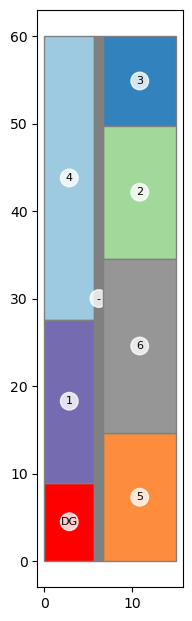
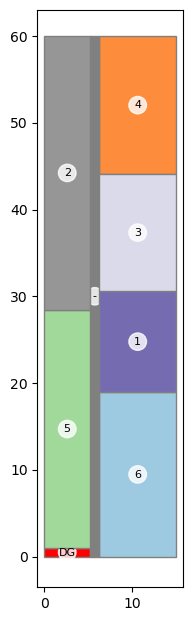
ajustes_0711

diff --git a/stages.py b/stages.py
@@ -2,7 +2,7 @@ import gurobipy as gp
 from gurobipy import GRB
 from get_cargo_sets import *
 from stowing_classes import Cargo, Ship
-gp.setParam("LogToConsole", 0) 
+# gp.setParam("LogToConsole", 0) 
 
 def stage_1(cargos: list[Cargo], ship: Ship, cargos_id_list) -> list[Cargo]:
     m1 = gp.Model("Estágio1")
@@ -29,10 +29,10 @@ def stage_2(ship: Ship, optimal_cargos_stage1: list[Cargo], time_max: int=60) ->
     m2.setParam(GRB.Param.NonConvex, 2)
     BETA= 1.5*ship.H/ship.W if ship.H/ship.W>ship.W/ship.H else 1.5*ship.W/ship.H
 
-    w_areas = m2.addVars(ship.areas_id, vtype=GRB.CONTINUOUS, name='w')
-    h_areas = m2.addVars(ship.areas_id, vtype=GRB.CONTINUOUS, name='h')
-    x_areas = m2.addVars(ship.areas_id, vtype=GRB.CONTINUOUS, name='x')
-    y_areas = m2.addVars(ship.areas_id, vtype=GRB.CONTINUOUS, name='y')
+    w_areas = m2.addVars(ship.areas_id, vtype=GRB.CONTINUOUS, lb=0.0, name='w')
+    h_areas = m2.addVars(ship.areas_id, vtype=GRB.CONTINUOUS, lb=0.0, name='h')
+    x_areas = m2.addVars(ship.areas_id, vtype=GRB.CONTINUOUS, lb=0.0, name='x')
+    y_areas = m2.addVars(ship.areas_id, vtype=GRB.CONTINUOUS, lb=0.0, name='y')
 
     a_kl_areas = m2.addVars(ship.areas_id, ship.areas_id, vtype=GRB.BINARY, name='a')
     b_kl_areas = m2.addVars(ship.areas_id, ship.areas_id, vtype=GRB.BINARY, name='b')
@@ -90,24 +90,38 @@ def stage_2(ship: Ship, optimal_cargos_stage1: list[Cargo], time_max: int=60) ->
     solution_w = m2.getAttr("X", w_areas)
     solution_h = m2.getAttr("X", h_areas)
 
+    a_areas = m2.getAttr("X", a_kl_areas)
+    b_areas = m2.getAttr("X", b_kl_areas)
+    c_areas = m2.getAttr("X", c_kl_areas)
+    d_areas = m2.getAttr("X", d_kl_areas)
+
     for k in ship.areas_id:
         ship.areas[k].x = solution_x[k]
         ship.areas[k].y = solution_y[k]
         ship.areas[k].w = solution_w[k]
         ship.areas[k].h = solution_h[k]
 
-def stage_3(ship: Ship, optimal_cargos_stage1: list[Cargo], cargos: list[Cargo], x_HS: dict, y_HS: dict) -> None:
+    return a_areas, b_areas, c_areas, d_areas
+
+def stage_3(ship: Ship, optimal_cargos_stage1: list[Cargo], cargos: list[Cargo], 
+            x_HS: dict, y_HS: dict, a_areas, b_areas, c_areas, d_areas) -> None:
 
     m3 = gp.Model("Estágio3")
     m3.setParam(GRB.Param.TimeLimit, 90)
     optimal_cargos_id_list = [c.cargo_id for c in optimal_cargos_stage1]
-    z = m3.addVars(optimal_cargos_id_list, vtype=GRB.CONTINUOUS, name='z')
+    z = m3.addVars(optimal_cargos_id_list, vtype=GRB.BINARY, name='z')
     x = m3.addVars(optimal_cargos_id_list, vtype=GRB.CONTINUOUS, name='x')
     y = m3.addVars(optimal_cargos_id_list, vtype=GRB.CONTINUOUS, name='y')
+
     a = m3.addVars(optimal_cargos_id_list,optimal_cargos_id_list, vtype=GRB.BINARY, name='a')
     b = m3.addVars(optimal_cargos_id_list,optimal_cargos_id_list, vtype=GRB.BINARY, name='b')
     c = m3.addVars(optimal_cargos_id_list,optimal_cargos_id_list, vtype=GRB.BINARY, name='c')
     d = m3.addVars(optimal_cargos_id_list,optimal_cargos_id_list, vtype=GRB.BINARY, name='d')
+
+    w_areas = m3.addVars(ship.areas_id, vtype=GRB.CONTINUOUS, name='w_a')
+    h_areas = m3.addVars(ship.areas_id, vtype=GRB.CONTINUOUS, name='h_a')
+    x_areas = m3.addVars(ship.areas_id, vtype=GRB.CONTINUOUS, name='x_a')
+    y_areas = m3.addVars(ship.areas_id, vtype=GRB.CONTINUOUS, name='y_a')
 
     C_AUX = get_C_AUX(optimal_cargos_stage1)
 
@@ -121,6 +135,7 @@ def stage_3(ship: Ship, optimal_cargos_stage1: list[Cargo], cargos: list[Cargo],
             m3.addConstr(b[c_i,c_j] <= 0.5*(z[c_i] + z[c_j]))
             m3.addConstr(c[c_i,c_j] <= 0.5*(z[c_i] + z[c_j]))
             m3.addConstr(d[c_i,c_j] <= 0.5*(z[c_i] + z[c_j]))
+            
             m3.addConstr(a[c_i,c_j] + b[c_i,c_j] + c[c_i,c_j] + d[c_i,c_j] <= 1)
             m3.addConstr(a[c_i,c_j] + b[c_i,c_j] + c[c_i,c_j] + d[c_i,c_j] >= z[c_i] + z[c_j] - 1)
 
@@ -131,22 +146,54 @@ def stage_3(ship: Ship, optimal_cargos_stage1: list[Cargo], cargos: list[Cargo],
 
     for cargo_i in optimal_cargos_stage1:
         c_i = cargo_i.cargo_id
+        a_i = cargo_i.area
         if not cargo_i.restricted_area:
-            m3.addConstr(x[c_i] >= ship.areas[cargo_i.area].x - ship.W*(1-z[c_i]))
-            m3.addConstr(x[c_i] + cargo_i.w <= ship.areas[cargo_i.area].x + ship.areas[cargo_i.area].w - ship.W*(1-z[c_i]))
-            m3.addConstr(y[c_i] >= ship.areas[cargo_i.area].y - ship.H*(1-z[c_i]))
-            m3.addConstr(y[c_i] + cargo_i.h <= ship.areas[cargo_i.area].y + ship.areas[cargo_i.area].h - ship.H*(1-z[c_i]))
+            m3.addConstr(x[c_i] >= x_areas[a_i] - ship.W*(1-z[c_i]))
+            m3.addConstr(x[c_i] + cargo_i.w <= x_areas[a_i] + w_areas[a_i] - ship.W*(1-z[c_i]))
+            m3.addConstr(y[c_i] >= y_areas[a_i] - ship.H*(1-z[c_i]))
+            m3.addConstr(y[c_i] + cargo_i.h <= y_areas[a_i] + h_areas[a_i] - ship.H*(1-z[c_i]))
         
         if cargo_i.urgent or cargo_i.restricted_area:
-            m3.addConstr(z[cargo_i.cargo_id]==1)
+            m3.addConstr(z[c_i]==1, name='125')
         
-        # if cargo_i.restricted_area:
-        #     m3.addConstr(x[c_i]==x_HS[c_i])
-        #     m3.addConstr(y[c_i]==y_HS[c_i])
-
+        if cargo_i.restricted_area:
+            m3.addConstr(x[c_i]==x_HS[c_i], name='126')
+            m3.addConstr(y[c_i]==y_HS[c_i], name='127')
 
     C_REF = [c.cargo_id for c in optimal_cargos_stage1 if c.refrigerated]
-    m3.addConstr(gp.quicksum(z[i] for i in C_REF) <= ship.T)
+
+    m3.addConstr(gp.quicksum(z[i] for i in C_REF) <= ship.T, name='128')
+
+    m3.addConstrs((x_areas[k]+w_areas[k]<=ship.W for k in ship.areas_id), name="129")
+    m3.addConstrs((y_areas[k]+h_areas[k]<=ship.H for k in ship.areas_id), name="130")
+
+    m3.addConstr(w_areas["area_0"]==ship.W_CORREDOR, name="132")
+    m3.addConstr(h_areas["area_0"]==ship.H, name="133")
+    m3.addConstr(x_areas["area_0"]>=0.35*ship.W, name="134")
+    m3.addConstr(x_areas["area_0"]<=0.65*ship.W, name="135")
+
+    m3.addConstr(h_areas[ship.dangerous_area]<=ship.H_DG, name="136")
+    m3.addConstr(y_areas[ship.dangerous_area]==0, name="137")
+
+    # m3.addConstrs((x[i]>=0 for i in optimal_cargos_id_list), name="138_x")
+    # m3.addConstrs((y[i]>=0 for i in optimal_cargos_id_list), name="138_y")
+
+    #non-overlapping constraint
+    for k in ship.areas_id:
+        for l in ship.areas_id:
+            if a_areas[k,l]==1:
+                m3.addConstr(x_areas[k]+w_areas[k]<=x_areas[l])
+            if b_areas[k,l]==1:
+                m3.addConstr(x_areas[l]+w_areas[l]<=x_areas[k])
+            if c_areas[k,l]==1:
+                m3.addConstr(y_areas[k]+h_areas[k]<=y_areas[l])
+            if d_areas[k,l]==1:
+                m3.addConstr(y_areas[l]+h_areas[l]<=y_areas[k])
+
+    m3.addConstrs((x_areas[k]>=0 for k in ship.areas_id), name="140_x")
+    m3.addConstrs((y_areas[k]>=0 for k in ship.areas_id), name="140_y")
+    m3.addConstrs((w_areas[k]>=0 for k in ship.areas_id), name="140_w")
+    m3.addConstrs((h_areas[k]>=0 for k in ship.areas_id), name="140_h")
 
     m3.setObjective(gp.quicksum(z[c.cargo_id]*c.priority for c in optimal_cargos_stage1), GRB.MAXIMIZE)
     m3.optimize()

diff --git a/execute_stowing_plan.py b/execute_stowing_plan.py
@@ -26,7 +26,7 @@ def read_inputs(path) -> Tuple[list[Cargo], str]:
     dangerous_area = "area_" + str(n_destinations)
     return cargos, dangerous_area
 
-def main(H, H_DG, W, T, W_CORREDOR, x_HS, y_HS, time_max, path="Plano de Estivagem - Copy.xlsx"):
+def main(H, H_DG, W, T, W_CORREDOR, x_HS, y_HS, time_max, path="Plano de Estivagem - Copy - Copy.xlsx"):
     logging.info("Reading inputs...")
     cargos, dangerous_area = read_inputs(path)
     cargos_id_list = [c.cargo_id for c in cargos]
@@ -40,13 +40,11 @@ def main(H, H_DG, W, T, W_CORREDOR, x_HS, y_HS, time_max, path="Plano de Estivag
     for cargo in optimal_cargos_stage1:
         print(f"{cargo.cargo_id}: W = {cargo.w}; H = {cargo.h}, Area = {cargo.area}")
     logging.info("Executing Stage 2...")
-    stage_2(ship, optimal_cargos_stage1, time_max)
-    for area in ship.areas.values():
-        print(f"{area.area_id}: W= {area.w} e H={area.h}; x = {area.x} e y = {area.y}")
+    a_areas, b_areas, c_areas, d_areas = stage_2(ship, optimal_cargos_stage1, time_max)
     im.plot_areas(ship=ship)
     logging.info("Ship areas plotted!")
     logging.info("Executing Stage 3")
-    stage_3(ship, optimal_cargos_stage1, cargos, x_HS, y_HS) 
+    stage_3(ship, optimal_cargos_stage1, cargos, x_HS, y_HS, a_areas, b_areas, c_areas, d_areas) 
     im.plot_cargos(ship=ship)
     logging.info("Stowing plan executed!")
     for c in cargos:
